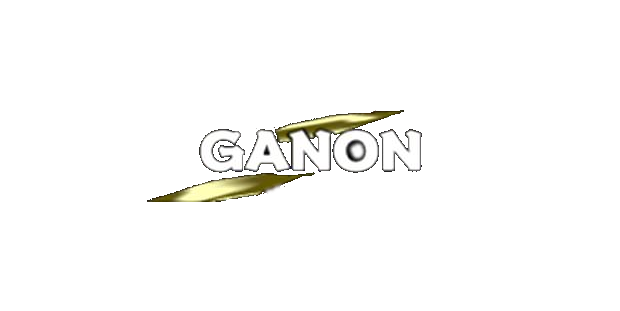
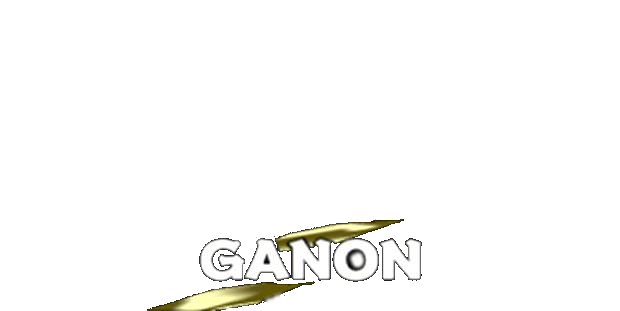
Add files via upload

Changed region(s): [[0.2145, 0.6945, 0.7048, 1.0], [0.2452, 0.3473, 0.7048, 0.6656]]

diff --git a/Main.css b/Main.css
@@ -280,16 +280,16 @@ h4 {
 @media (max-width: 600px) {
 
     .beat-of-the-week h2 {
-
-        width: 100%;
-
-        height: 311px;
-
-        background-size: 100% auto;
-
+        width: 100vw;
+        height: 300px;
+        margin: 0;
+        padding: 0;
+        background-size: 100vw auto;
         background-position: center center;
-
         background-repeat: no-repeat;
+        position: relative;
+        left: 50%;
+        transform: translateX(-50%);
     }
 
     .beat-box {
